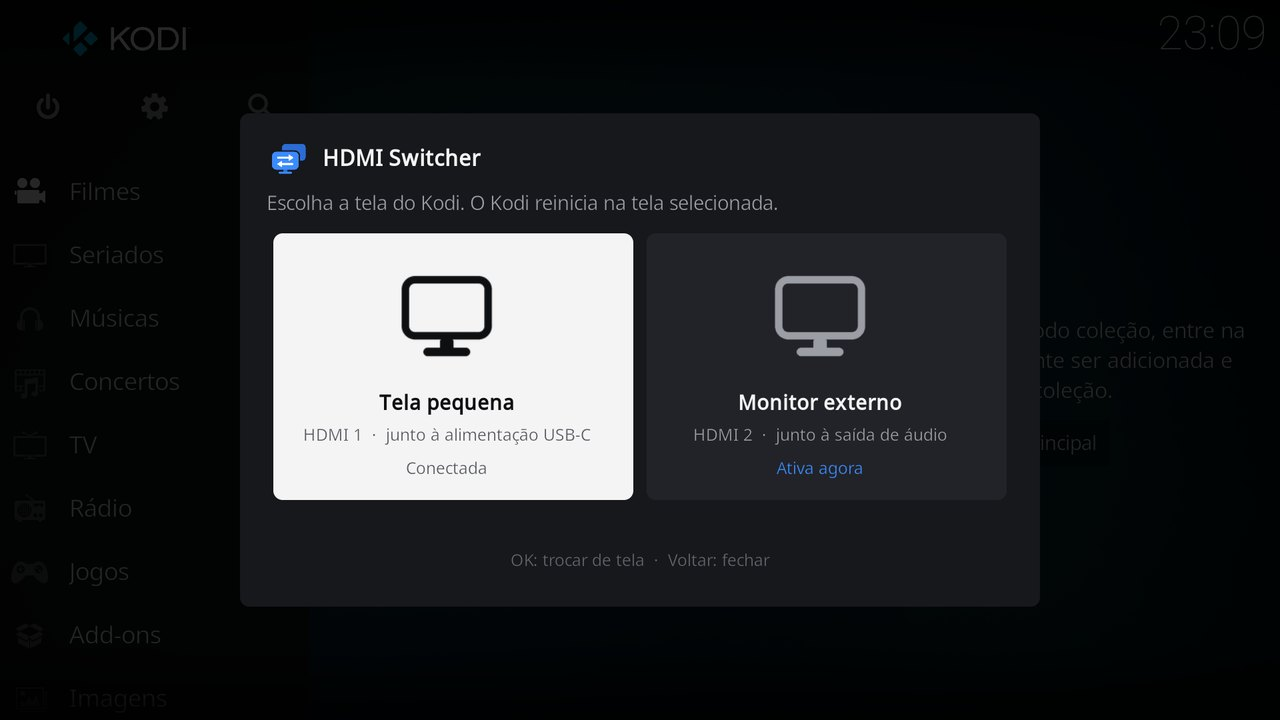
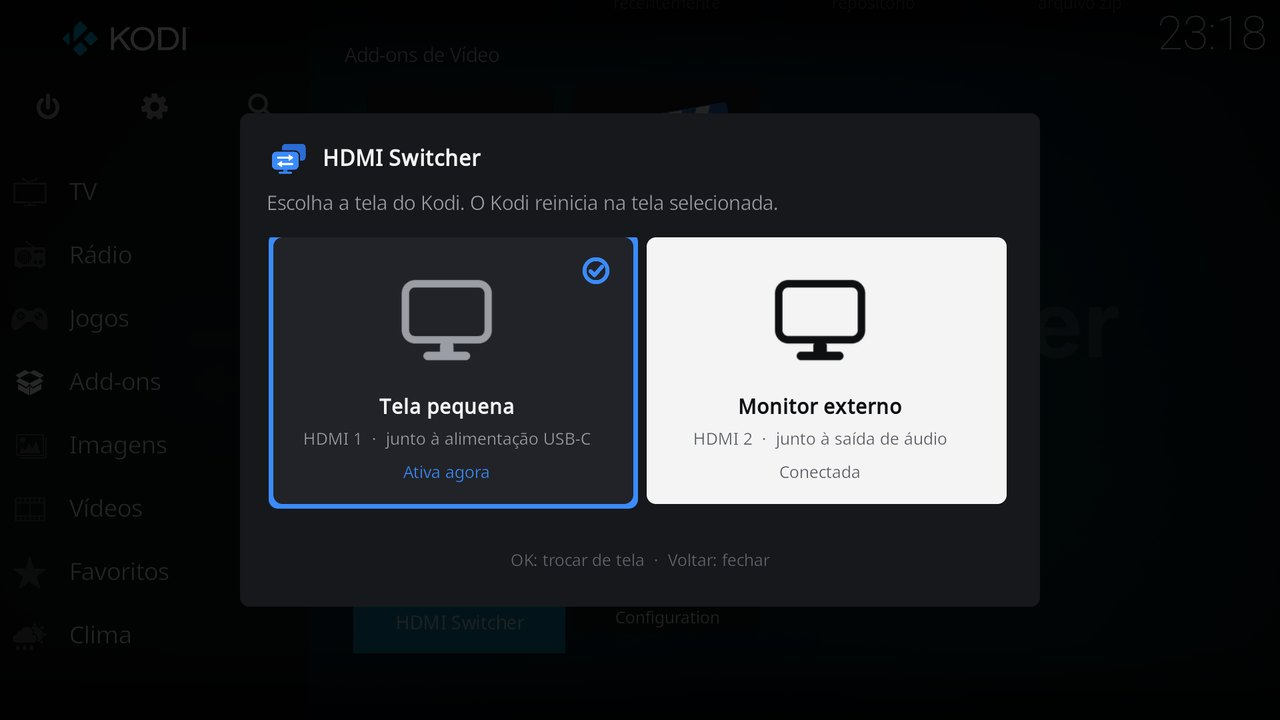
Update HDMI Switcher to 1.1.1: open on the active display and mark it

diff --git a/tools/generate_hdmi_switcher_skin.py b/tools/generate_hdmi_switcher_skin.py
@@ -26,22 +26,28 @@ def card(name_color, detail_color, icon_color, condition=None):
     ]
 
 
+def active_mark():
+    """Blue ring and check mark of the active display, shown with or without focus."""
+    return [panel(3, -7, 554, 414, ACCENT, state("active")),
+            image(470, 26, 48, 48, "check.png", ACCENT, state("active"))]
+
+
 def cards():
     return f"""<control type="list" id="100">
   <left>400</left>
-  <top>350</top>
+  <top>356</top>
   <width>1120</width>
-  <height>410</height>
+  <height>416</height>
   <orientation>horizontal</orientation>
   <onup>noop</onup>
   <ondown>noop</ondown>
   <scrolltime>150</scrolltime>
   <itemlayout width="560" height="410">
-{join(panel(10, 0, 540, 400, RAISED), *card(TEXT, TEXT2, TEXT2), spaces=4)}
+{join(active_mark()[0], panel(10, 0, 540, 400, RAISED), active_mark()[1], *card(TEXT, TEXT2, TEXT2), spaces=4)}
   </itemlayout>
   <focusedlayout width="560" height="410">
-{join(panel(10, 0, 540, 400, FOCUS, cards_focus), panel(10, 0, 540, 400, RAISED2, "!" + cards_focus),
-      *card(ON_FOCUS, ON_FOCUS2, ON_FOCUS, cards_focus), *card(TEXT, TEXT2, TEXT2, "!" + cards_focus), spaces=4)}
+{join(active_mark()[0], panel(10, 0, 540, 400, FOCUS, cards_focus), panel(10, 0, 540, 400, RAISED2, "!" + cards_focus),
+      active_mark()[1], *card(ON_FOCUS, ON_FOCUS2, ON_FOCUS, cards_focus), *card(TEXT, TEXT2, TEXT2, "!" + cards_focus), spaces=4)}
   </focusedlayout>
 </control>"""
 

diff --git a/script.hdmi.switcher/default.py b/script.hdmi.switcher/default.py
@@ -102,8 +102,8 @@ class DisplayPicker(xbmcgui.WindowXMLDialog):
             item.setProperty("state", state)
             item.setProperty("status", status)
             cards.addItem(item)
-            # Start on the first display that is not active, the likely choice.
-            if connector != self.active and start is None:
+            # Start on the active display, so the highlighted card matches the current screen.
+            if connector == self.active:
                 start = index
         cards.selectItem(start or 0)
         self.setFocusId(CARDS)

diff --git a/script.hdmi.switcher/README.md b/script.hdmi.switcher/README.md
@@ -64,7 +64,7 @@ If the legacy `script.trocar.tela` add-on is installed, uninstall it before usin
 ## Usage
 
 1. Open **HDMI Switcher**.
-2. Select the card of the display you want. Each card shows its port and whether it is the active display, connected, or not connected. The card that is not active is selected first.
+2. Select the card of the display you want. Each card shows its port and whether it is the active display, connected, or not connected. The window opens on the active display, which also has a blue outline and check mark. Move to the other card to switch.
 3. Confirm with **Switch**. Kodi restarts on the selected display.
 
 **Back** closes the window without changes. Selecting the active display only shows that it is already active, and a display that is not connected cannot be selected for a switch.
@@ -119,7 +119,7 @@ Increment this add-on's version in `addon.xml` and push the changes. The reposit
 
 Local checks cover XML preservation, repeated switches, invalid configuration rejection, backup creation, cancellation, disconnected displays, and rollback when restart submission fails. The user confirmed successful HDMI display switching on the target Raspberry Pi with version 1.0.4.
 
-Version 1.1.0 was tested on the target Raspberry Pi up to the confirmation: the cards, their states and navigation, and cancelling. Detection of the active display was tested locally. Switching itself uses the same code as version 1.0.4, but was not repeated with the new window.
+Versions 1.1.0 and 1.1.1 were tested on the target Raspberry Pi up to the confirmation, on both displays: the cards, the mark of the active display, navigation, and cancelling. Detection of the active display was tested locally. Switching itself uses the same code as version 1.0.4, but was not repeated with the new window.
 
 ## References
 
